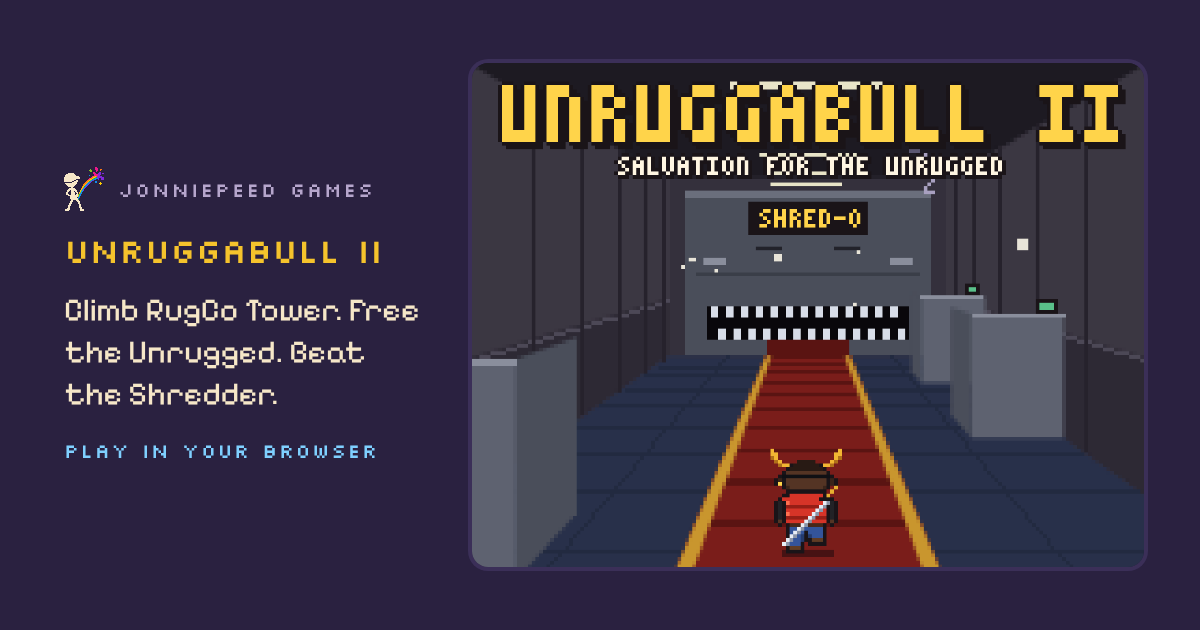
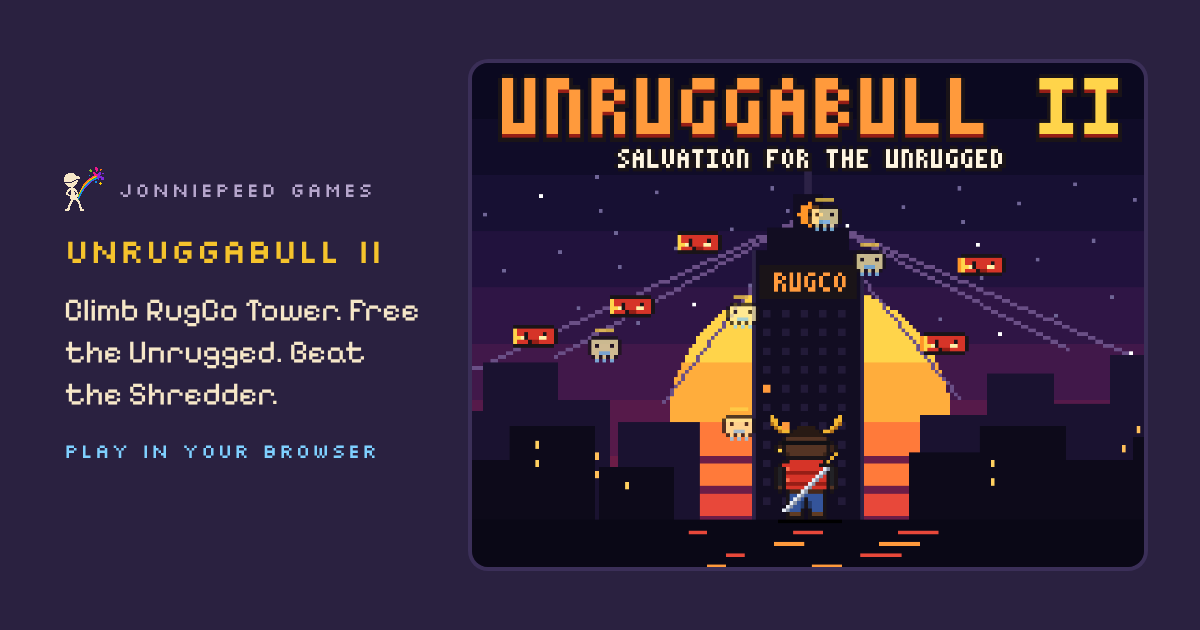
Unruggabull II: RugCo Tower at sunset on the title screen
The storyboard's tower scene, redrawn for the 240x135 canvas: the sun sinking in
stripes behind RugCo Tower, souls drifting up the threads to p(Loom)'s beacon,
carpshits circling, and the bull at the foot of it. New logo: orange with a gold II.
Share card, thumbnail and alt text updated to match.

Claude-Session: https://claude.ai/code/session_01Shk76qmAQii5WjqzMX9pQY

diff --git a/site/unruggabull-ii/game.js b/site/unruggabull-ii/game.js
@@ -674,12 +674,66 @@
       txt(g, T.text.slice(0, n), x + 3, y + 3, '#1a1418');
     }
   }
+  // ---------- title: RugCo Tower at sunset ----------
+  // Souls drift up the threads to p(Loom)'s beacon on the roof while carpshits circle. Static layers are cached once.
+  const GROUND = 122, BEACON = { x: 120, y: 40 };
+  let TOWER = null;
+  function skyline(b, list, col, win, k) {
+    for (const [x, y, w] of list) {
+      rect(b, x, y, w, GROUND - y, col);
+      for (let wy = y + 4; wy < GROUND - 3; wy += 5) for (let wx = x + 3; wx < x + w - 2; wx += 4) if (((wx * k + wy * 7) % 17) < 2) rect(b, wx, wy, 1, 2, win);
+    }
+  }
+  function buildTower() {
+    const sky = A.canvas(W, H), front = A.canvas(W, H), s = sky.getContext('2d'), f = front.getContext('2d');
+    ['#0b0920', '#100c28', '#171033', '#21123d', '#2f1545', '#41184a', '#561a4a', '#6c1d47', '#6c1d47'].forEach((col, i) => rect(s, 0, i * 15, W, 16, col));
+    for (let i = 0; i < 60; i++) A.px(s, (i * 97 + 13) % W, 30 + (i * 53) % 50, i % 7 ? '#6f6596' : '#ffffff');
+    // the threads run from the beacon down into the city, behind the buildings
+    for (const [x, y] of [[18, 87], [52, 78], [81, 90], [160, 89], [189, 76], [225, 86]]) line(f, BEACON.x, BEACON.y, x, y, '#6a4f86');
+    skyline(f, [[0, 87, 20], [18, 93, 17], [33, 80, 20], [52, 90, 15], [69, 96, 22], [150, 94, 20], [168, 83, 18], [186, 91, 15], [201, 78, 21], [220, 88, 20]], '#1a1230', '#ffbf5a', 13);
+    rect(f, 105, 50, 30, GROUND - 50, '#120d22'); rect(f, 105, 50, 1, GROUND - 50, '#2c2246'); rect(f, 134, 50, 1, GROUND - 50, '#2c2246');
+    rect(f, 109, 44, 22, 6, '#120d22'); rect(f, 116, 35, 8, 9, '#120d22'); rect(f, 119, 28, 2, 7, '#2c2246');
+    for (let wy = 66; wy < GROUND - 3; wy += 5) for (let wx = 108; wx < 133; wx += 5) rect(f, wx, wy, 2, 2, ((wx * 7 + wy * 3) % 13) === 0 ? '#ff9a3c' : '#221a38');
+    rect(f, 107, 54, 26, 9, '#1a1418'); txt(f, 'RUGCO', 120, 56, '#ff9a3c', 1, 'center');
+    skyline(f, [[0, 100, 26], [22, 106, 18], [40, 97, 23], [64, 108, 20], [147, 104, 21], [166, 97, 23], [189, 106, 18], [207, 100, 33]], '#0d0a1a', '#ffd060', 11);
+    rect(f, 0, GROUND, W, H - GROUND, '#0a0816');
+    for (let i = 0; i < 9; i++) rect(f, 88 + ((i * 23) % 64), GROUND + 3 + (i % 4) * 3, 5 + (i % 3) * 3, 1, i % 2 ? '#ff9a3c' : '#e8483a');
+    rect(f, 112, GROUND, 17, 1, '#000');
+    f.drawImage(A.POSES.stand, 120 - A.POSE_W / 2, GROUND - 38);
+    TOWER = { sky, front };
+  }
+  function drawTower(t) {
+    if (!TOWER) buildTower();
+    g.drawImage(TOWER.sky, 0, 0);
+    // the sun sinks behind the tower in scrolling stripes
+    const sx = 120, sy = 96, Rs = 38;
+    for (let dy = -Rs; dy <= Rs; dy++) {
+      const y = sy + dy; if (y >= GROUND) break;
+      const w = Math.floor(Math.sqrt(Rs * Rs - dy * dy)), k = (dy + Rs) / (2 * Rs);
+      if (dy > 2) { const gap = 1 + Math.floor(dy / 10), ph = (((dy + Math.floor(t * 5)) % 8) + 8) % 8; if (ph < gap) continue; }
+      rect(g, sx - w, y, 2 * w + 1, 1, k < .28 ? '#ffd44a' : k < .5 ? '#ffad3c' : k < .72 ? '#ff7a3a' : '#e8483a');
+    }
+    g.drawImage(TOWER.front, 0, 0);
+    disc(g, BEACON.x, BEACON.y, 3, Math.sin(t * 3) > .4 ? '#ffd060' : '#ff9628'); A.px(g, BEACON.x, BEACON.y, '#140c08');
+    g.save(); g.globalAlpha = .75;
+    [[30, 92], [69, 98], [172, 95], [212, 88], [96, 104]].forEach(([x, y], i) => {
+      const k = mod1(t * .12 + i / 5);
+      g.drawImage(A.GHOST, Math.round(x + (BEACON.x - 4 - x) * k + Math.sin(t * 2 + i) * 3), Math.round(y + (BEACON.y - 6 - y) * k));
+    });
+    g.restore();
+    [[66, 60], [160, 50], [84, 46], [150, 74], [40, 72]].forEach(([x, y], i) => g.drawImage(A.CARPF[(Math.floor(t * 8) + i) % 2], x, Math.round(y + Math.sin(t * 2.5 + i) * 2), 13, 6));
+  }
   function drawTitle() {
-    otxt(g, 'UNRUGGABULL II', 121, 7, '#961e16', 3, 'center');
-    otxt(g, 'UNRUGGABULL II', 120, 6, '#ffd44a', 3, 'center');
-    otxt(g, 'SALVATION FOR THE UNRUGGED', 120, 25, '#fff6e2', 1, 'center');
+    drawTower(R.t);
+    // the logo: orange with a gold II, a red lip under each stroke and a dark outline
+    const s = 'UNRUGGABULL II', x = Math.round(120 - textWidth(s, 3) / 2), y = 4;
+    for (const [dx, dy] of [[-1, 0], [1, 0], [0, -1], [-1, 1], [1, 1], [0, 2], [1, 2], [-1, 2]]) txt(g, s, x + dx, y + dy, '#1a1418', 3);
+    txt(g, s, x, y + 1, '#961e16', 3);
+    txt(g, 'UNRUGGABULL', x, y, '#ff9a3c', 3); txt(g, 'II', x + 12 * 12, y, '#ffd44a', 3);
+    otxt(g, 'SALVATION FOR THE UNRUGGED', 120, 23, '#fff6e2', 1, 'center');
   }
   function draw() {
+    if (state === 'title') { g.setTransform(1, 0, 0, 1, 0, 0); drawTitle(); return; }
     const sh = R.shake > 0 ? Math.round((rnd() - .5) * 6 * Math.min(1, R.shake * 4)) : 0;
     g.setTransform(1, 0, 0, 1, 0, 0);
     rect(g, 0, 0, W, H, '#09070b');
@@ -699,8 +753,7 @@
     drawFx();
     g.setTransform(1, 0, 0, 1, 0, 0);
     if (R.red > 0) { g.save(); g.globalAlpha = R.red * 1.6; rect(g, 0, 0, W, H, '#d63428'); g.restore(); }
-    if (state === 'title') drawTitle();
-    else { drawHUD(); drawWords(); }
+    drawHUD(); drawWords();
   }
 
   // ---------- page: card, sound, full screen ----------
@@ -745,8 +798,13 @@
     stats(rows);
     card.hidden = false;
   }
+  const LABELS = {
+    title: 'Title screen: Unruggabull, katana on his back, faces RugCo Tower at sunset while souls drift up to a beacon on its roof.',
+    play: 'Unruggabull, seen from behind, in an office hallway on floor 13 of RugCo Tower. Cubicles line the hall, a red runner rug leads to a shredder at the far end.'
+  };
   function setState(s) {
     state = s;
+    c.setAttribute('aria-label', s === 'title' ? LABELS.title : LABELS.play);
     gameEl.classList.toggle('playing', s === 'play');
     pauseBtn.hidden = !(s === 'play' || s === 'pause');
     pauseBtn.textContent = s === 'pause' ? 'Resume' : 'Pause';

diff --git a/site/unruggabull-ii/index.html b/site/unruggabull-ii/index.html
@@ -12,15 +12,15 @@
 <meta property="og:title" content="Unruggabull II · JonniePeed Games">
 <meta property="og:description" content="Climb RugCo Tower. Free the Unrugged. Beat the Shredder.">
 <meta property="og:url" content="https://jonniepeed.games/unruggabull-ii/">
-<meta property="og:image" content="https://jonniepeed.games/unruggabull-ii/og.png?v=da88e35073">
+<meta property="og:image" content="https://jonniepeed.games/unruggabull-ii/og.png?v=e0c4a87ec0">
 <meta property="og:image:width" content="1200">
 <meta property="og:image:height" content="630">
-<meta property="og:image:alt" content="Unruggabull II title screen: the 8-bit bull hero runs down a RugCo office hallway toward a sleeping shredder, beside the tagline">
+<meta property="og:image:alt" content="Unruggabull II title screen: the 8-bit bull hero, katana on his back, faces RugCo Tower at sunset while souls drift up to its roof, beside the tagline">
 <meta name="twitter:card" content="summary_large_image">
 <meta name="twitter:title" content="Unruggabull II · JonniePeed Games">
 <meta name="twitter:description" content="Climb RugCo Tower. Free the Unrugged. Beat the Shredder.">
-<meta name="twitter:image" content="https://jonniepeed.games/unruggabull-ii/og.png?v=da88e35073">
-<meta name="twitter:image:alt" content="Unruggabull II title screen: the 8-bit bull hero runs down a RugCo office hallway toward a sleeping shredder, beside the tagline">
+<meta name="twitter:image" content="https://jonniepeed.games/unruggabull-ii/og.png?v=e0c4a87ec0">
+<meta name="twitter:image:alt" content="Unruggabull II title screen: the 8-bit bull hero, katana on his back, faces RugCo Tower at sunset while souls drift up to its roof, beside the tagline">
 <link rel="icon" href="../assets/favicon.ico?v=443c0101ac" sizes="any">
 <link rel="icon" type="image/png" href="../assets/favicon-32.png?v=569f3f592d">
 <link rel="apple-touch-icon" href="../assets/apple-touch-icon.png?v=c9eec24c41">
@@ -125,7 +125,7 @@ body.locked{overflow:hidden}
     </header>
     <div class="arena">
       <div class="stage">
-        <canvas id="c" width="240" height="135" tabindex="-1" aria-label="Unruggabull, seen from behind, in an office hallway on floor 13 of RugCo Tower. Cubicles line the hall, a red runner rug leads to a shredder at the far end."></canvas>
+        <canvas id="c" width="240" height="135" tabindex="-1" aria-label="Title screen: Unruggabull, katana on his back, faces RugCo Tower at sunset while souls drift up to a beacon on its roof."></canvas>
       </div>
       <div class="deck">
         <div class="card" id="card">
@@ -153,6 +153,6 @@ body.locked{overflow:hidden}
 </main>
 <script src="art.js?v=6309a4b120"></script>
 <script src="audio.js?v=53115a130b"></script>
-<script src="game.js?v=8a39e07469"></script>
+<script src="game.js?v=6cf7f7915b"></script>
 </body>
 </html>

diff --git a/site/index.html b/site/index.html
@@ -138,7 +138,7 @@ footer img{width:20px;height:22px;image-rendering:pixelated}
       </div>
     </a>
     <a class="card orange" href="unruggabull-ii/" data-side="b" data-badge="demo" hidden>
-      <div class="thumb"><img src="unruggabull-ii/thumb.webp?v=1ff1586c4f" width="768" height="576" alt="Unruggabull II title screen: the 8-bit bull hero, katana on his back, runs down an office hallway toward a sleeping shredder"></div>
+      <div class="thumb"><img src="unruggabull-ii/thumb.webp?v=ab9ae1cfb6" width="768" height="576" alt="Unruggabull II title screen: the 8-bit bull hero, katana on his back, faces RugCo Tower at sunset while souls drift up to its roof"></div>
       <div class="info">
         <span class="badge"></span>
         <span class="tag">Game · phone or desktop</span>
